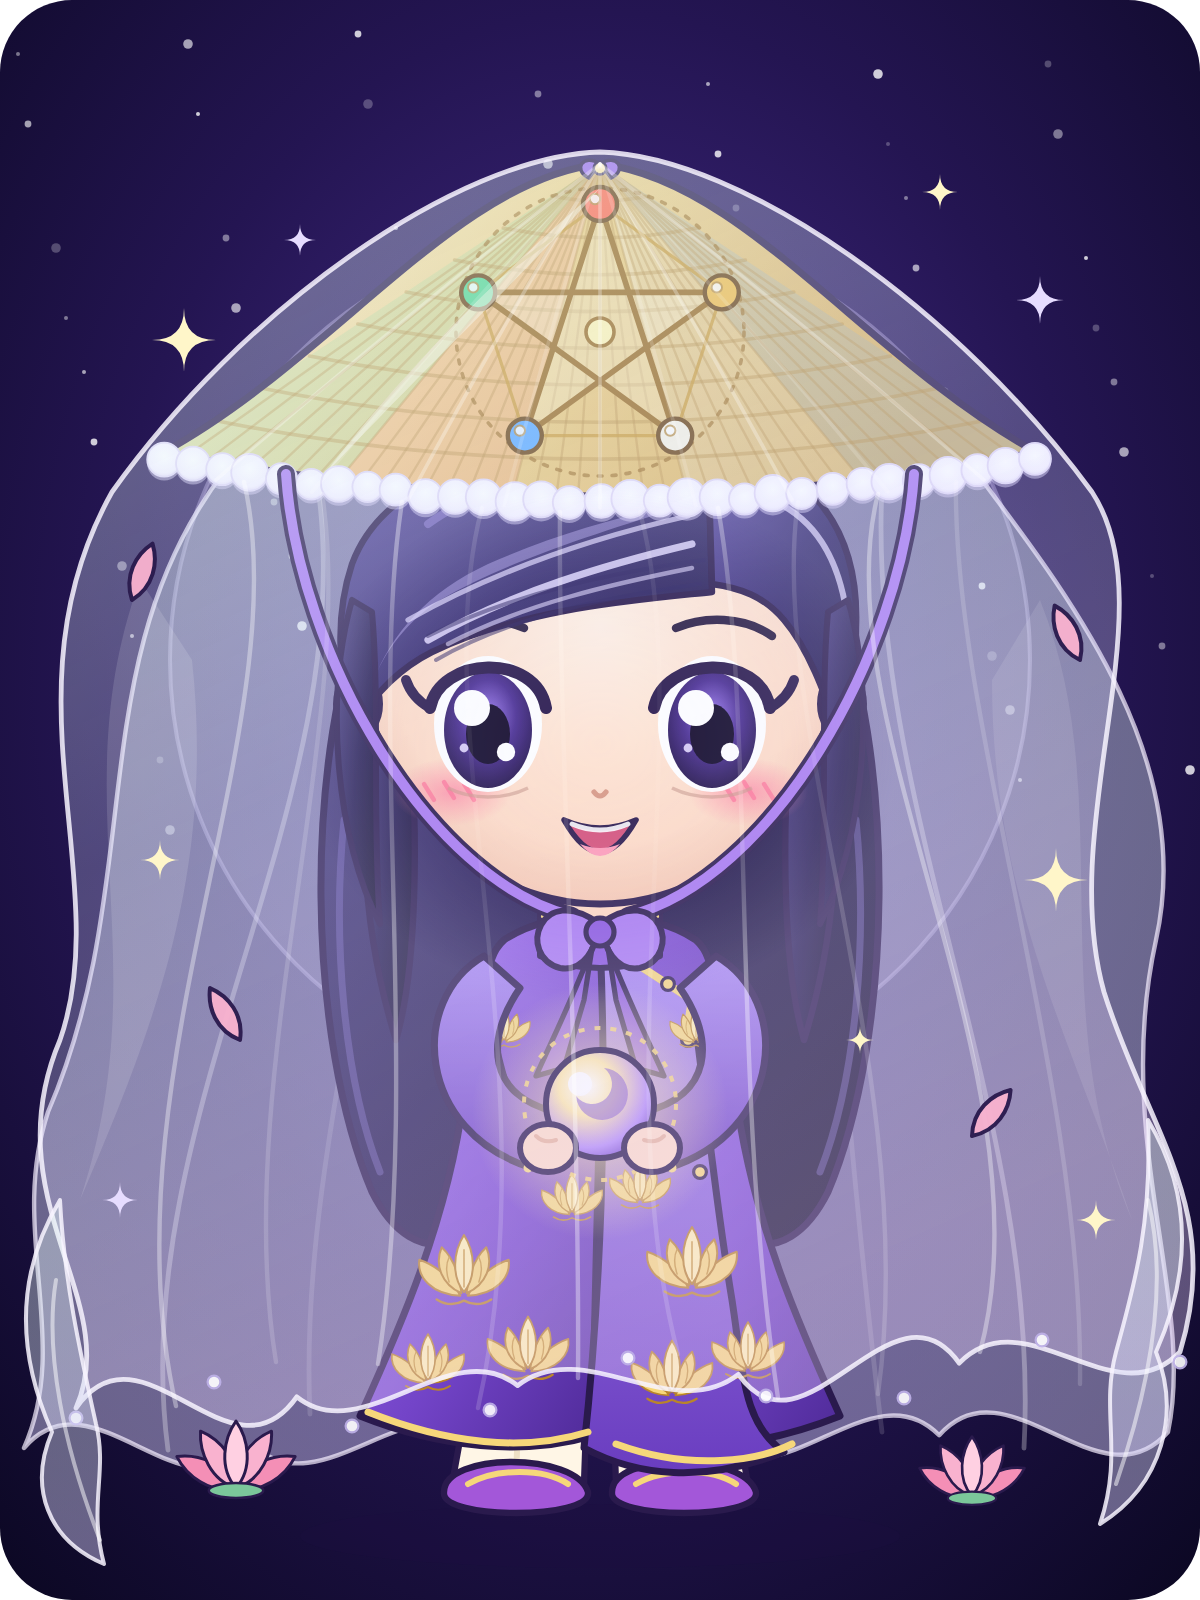
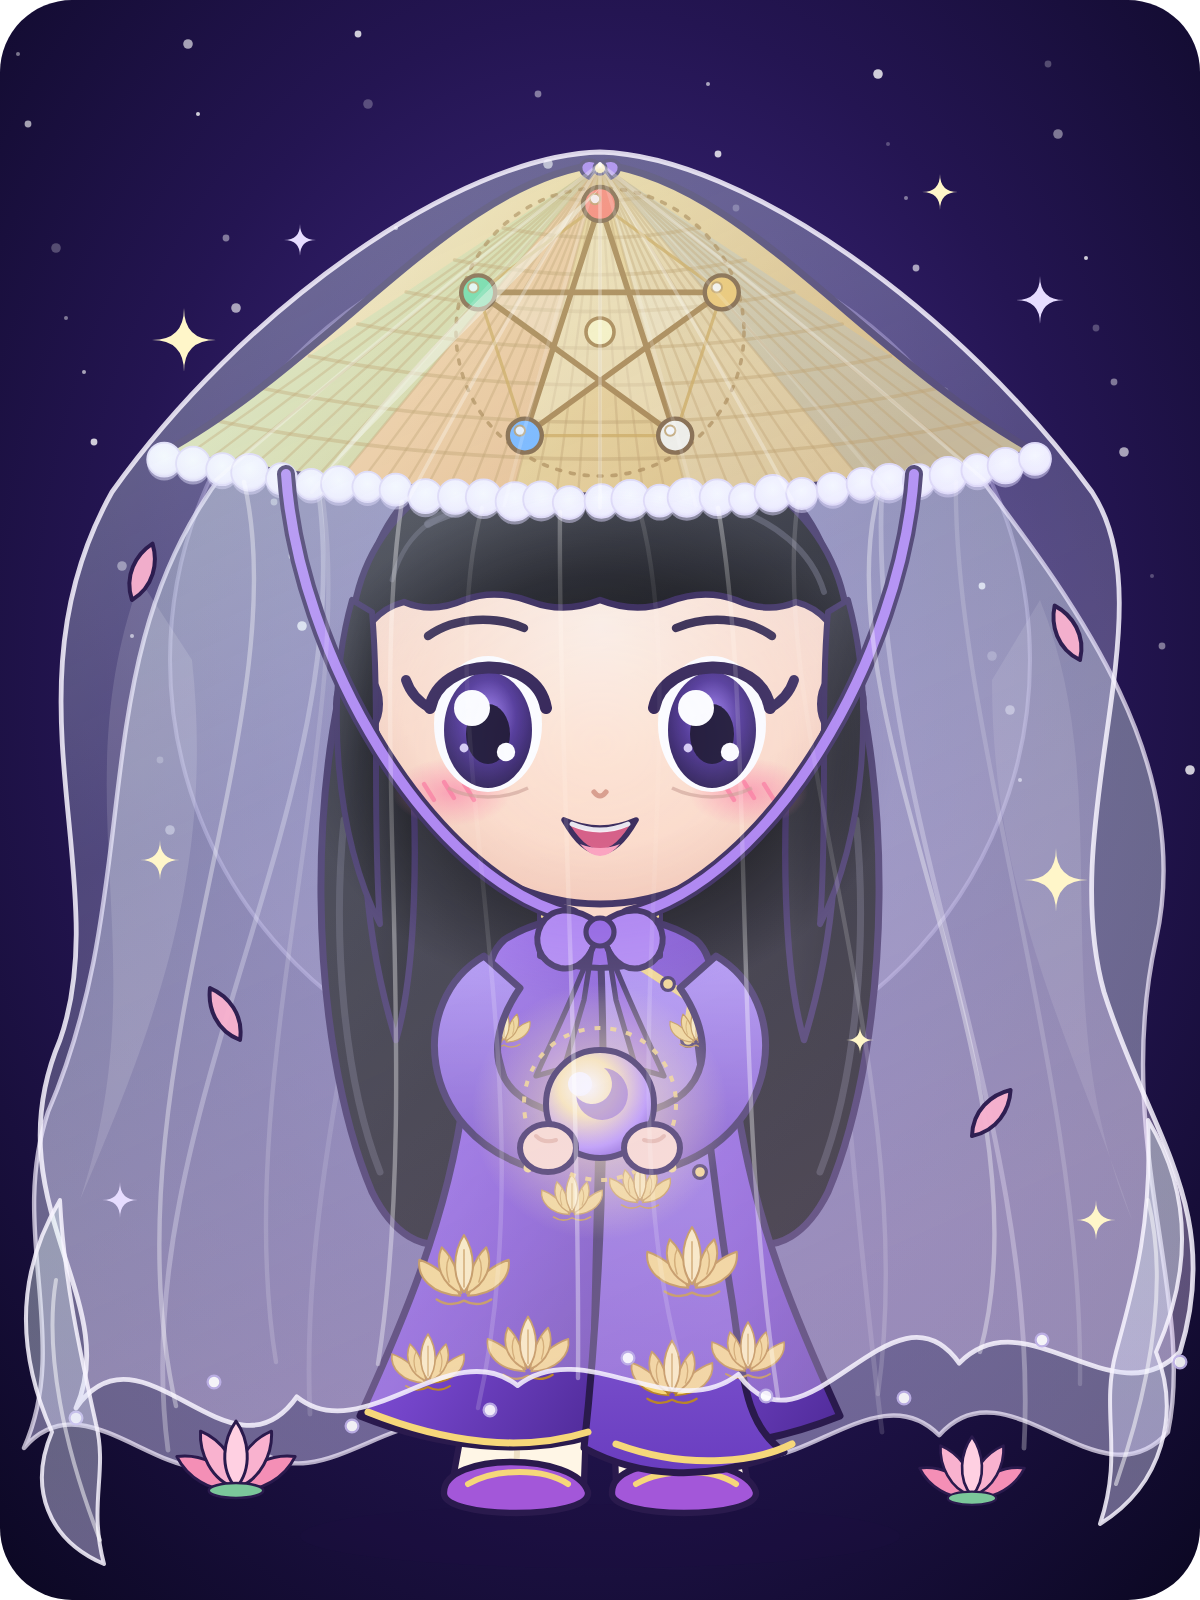
Huyền My v2: tóc đen tuyền, mái thẳng với mép lượn mềm
Claude-Session: https://claude.ai/code/session_01AxiVpuxpGkTqByN3TdYc71

Changed region(s): [[0.2467, 0.3125, 0.74, 0.7812]]

diff --git a/tools/chibi.py b/tools/chibi.py
@@ -1,4 +1,4 @@
-# Bộ sinh ảnh vector Huyền My (v2: nón vòm thanh, voan trùm nón, sao ngũ hành, sen cách điệu; có bản chuyển động). Chạy: python3 tools/chibi.py public/art
+# Bộ sinh ảnh vector Huyền My (v2: tóc đen tuyền, mái thẳng, nón vòm thanh, voan trùm nón, sao ngũ hành, sen cách điệu; có bản chuyển động). Chạy: python3 tools/chibi.py public/art
 # Bộ sinh ảnh vector Huyền My (chibi). Chạy: python3 tools/chibi.py public/art
 import math, sys
 
@@ -146,9 +146,9 @@ def character(with_veil=False, anim=False):
     S.append('<ellipse cx="300" cy="768" rx="150" ry="16" fill="#1c1040" opacity=".28"/>')
     if with_veil: S.append(veil_defs()); S.append(veil_back(anim))
     # tóc sau
-    S.append('<linearGradient id="hairg2" x1="0" y1="0" x2="1" y2="1"><stop offset="0" stop-color="#5b4aa4"/><stop offset=".5" stop-color="#352a6e"/><stop offset="1" stop-color="#1f1745"/></linearGradient><linearGradient id="hairg" x1="0" y1="0" x2="1" y2="1"><stop offset="0" stop-color="#4c3f86"/><stop offset=".5" stop-color="#271d52"/><stop offset="1" stop-color="#140f2c"/></linearGradient>')
+    S.append('<linearGradient id="hairg2" x1="0" y1="0" x2="1" y2="1"><stop offset="0" stop-color="#2b2b31"/><stop offset=".5" stop-color="#101014"/><stop offset="1" stop-color="#000000"/></linearGradient><linearGradient id="hairg" x1="0" y1="0" x2="1" y2="1"><stop offset="0" stop-color="#26262c"/><stop offset=".5" stop-color="#0d0d10"/><stop offset="1" stop-color="#000000"/></linearGradient>')
     S.append(f'<path id="hair-back" d="M 186 292 C 150 380 154 520 186 596 C 208 640 244 624 254 580 L 346 580 C 356 624 392 640 414 596 C 446 520 450 380 414 292 Z" fill="url(#hairg)" stroke="{OUT}" stroke-width="3.5" stroke-linejoin="round"/>')
-    S.append('<path d="M 172 410 C 166 470 172 540 190 586" fill="none" stroke="#7a68c0" stroke-width="3.5" stroke-linecap="round" opacity=".45"/><path d="M 428 410 C 434 470 428 540 410 586" fill="none" stroke="#7a68c0" stroke-width="3.5" stroke-linecap="round" opacity=".45"/>')
+    S.append('<path d="M 172 410 C 166 470 172 540 190 586" fill="none" stroke="#5a5a68" stroke-width="3.5" stroke-linecap="round" opacity=".45"/><path d="M 428 410 C 434 470 428 540 410 586" fill="none" stroke="#5a5a68" stroke-width="3.5" stroke-linecap="round" opacity=".45"/>')
     # quần lụa + hài
     S.append(f'<path d="M 246 632 L 296 632 L 292 742 L 226 742 Z" fill="#fff6e6" stroke="{OUT}" stroke-width="3.2" stroke-linejoin="round"/>')
     S.append(f'<path d="M 304 632 L 354 632 L 374 742 L 308 742 Z" fill="#fff6e6" stroke="{OUT}" stroke-width="3.2" stroke-linejoin="round"/>')
@@ -210,16 +210,13 @@ def character(with_veil=False, anim=False):
     S.append('<path d="M 297 396 Q 300 400 303 396" fill="none" stroke="#d99a86" stroke-width="2.6" stroke-linecap="round"/>')
     S.append(f'<g id="mouth"><path d="M 282 410 Q 300 442 318 410 Q 300 418 282 410 Z" fill="#d6527a" stroke="{OUT}" stroke-width="2.8" stroke-linejoin="round"/><path d="M 290 422 Q 300 434 310 422 Q 300 426 290 422 Z" fill="#ff9db8"/><path d="M 286 412 Q 300 418 314 412" fill="none" stroke="#fff" stroke-width="2.4" stroke-linecap="round" opacity=".9"/></g>')
     # mái + tóc hai bên mặt
-    # tóc mái vén ngang: lọn dày, nền tóc sáng, vuốt chéo sang trái rồi gài sau tai
-    S.append(f'<path id="bangs" d="M 354 226 L 356 296 C 318 300 262 304 216 326 C 200 334 188 346 178 362 C 168 336 168 306 176 282 C 190 244 238 224 300 222 Z" fill="url(#hairg2)" stroke="{OUT}" stroke-width="3.2" stroke-linejoin="round"/>')
-    S.append(f'<path d="M 354 226 C 402 228 430 262 428 314 C 428 336 426 352 420 368 C 412 346 404 324 392 310 C 382 298 370 294 356 292 Z" fill="url(#hairg2)" stroke="{OUT}" stroke-width="3.2" stroke-linejoin="round"/>')
-    S.append('<path d="M 350 250 C 316 262 262 276 220 300 C 204 310 192 326 186 342 C 196 316 214 296 244 282 C 280 266 318 256 350 250 Z" fill="#c5b5ff" opacity=".42"/>')
-    S.append('<g fill="none" stroke="#e3d9ff" stroke-linecap="round"><path d="M 346 272 C 304 282 256 296 214 320" stroke-width="3.6" opacity=".85"/><path d="M 344 258 C 300 268 250 284 204 310" stroke-width="2.6" opacity=".7"/><path d="M 346 284 C 306 292 262 302 224 322" stroke-width="2.2" opacity=".6"/><path d="M 372 246 C 404 252 420 276 424 312" stroke-width="3" opacity=".75"/></g>')
-    S.append('<g fill="none" stroke="#2a2060" stroke-width="2" stroke-linecap="round" opacity=".55"><path d="M 350 292 C 306 298 256 308 218 330"/><path d="M 352 280 C 308 286 258 296 214 318"/></g>')
+    # tóc mái thẳng ngang, mép dưới lượn sóng nhẹ
+    S.append(f'<path id="bangs" d="M 176 332 C 170 262 226 220 300 220 C 374 220 430 262 424 332 C 420 314 410 304 398 301 Q 384 307 368 300 Q 352 294 334 301 Q 318 307 300 300 Q 282 307 266 301 Q 248 294 232 300 Q 216 307 202 301 C 190 304 180 314 176 332 Z" fill="url(#hairg2)" stroke="{OUT}" stroke-width="3.2" stroke-linejoin="round"/>')
+    S.append('<g fill="none" stroke="#5a5a68" stroke-linecap="round"><path d="M 214 262 C 248 246 290 242 332 246" stroke-width="3.4" opacity=".7"/><path d="M 360 252 C 388 260 406 276 412 296" stroke-width="3" opacity=".55"/><path d="M 196 290 C 200 276 206 268 214 262" stroke-width="2.4" opacity=".5"/></g>')
     for sgn in (-1,1):
         x=300+sgn*124
         S.append(f'<path d="M {x} 300 C {x+sgn*14} 350 {x+sgn*8} 420 {x-sgn*14} 462 C {x-sgn*10} 410 {x-sgn*14} 350 {x-sgn*10} 306 Z" fill="url(#hairg)" stroke="{OUT}" stroke-width="3" stroke-linejoin="round"/>')
-    S.append('<path d="M 214 262 C 236 246 262 240 284 244" fill="none" stroke="#8f7cd8" stroke-width="4" stroke-linecap="round" opacity=".55"/>')
+    S.append('<path d="M 214 262 C 236 246 262 240 284 244" fill="none" stroke="#5a5a68" stroke-width="4" stroke-linecap="round" opacity=".55"/>')
     # ===== nón lá =====
     S.append('<g transform="translate(0,-30)">'+hat()+'</g>')
     # dây quai tím + nơ dưới cằm
